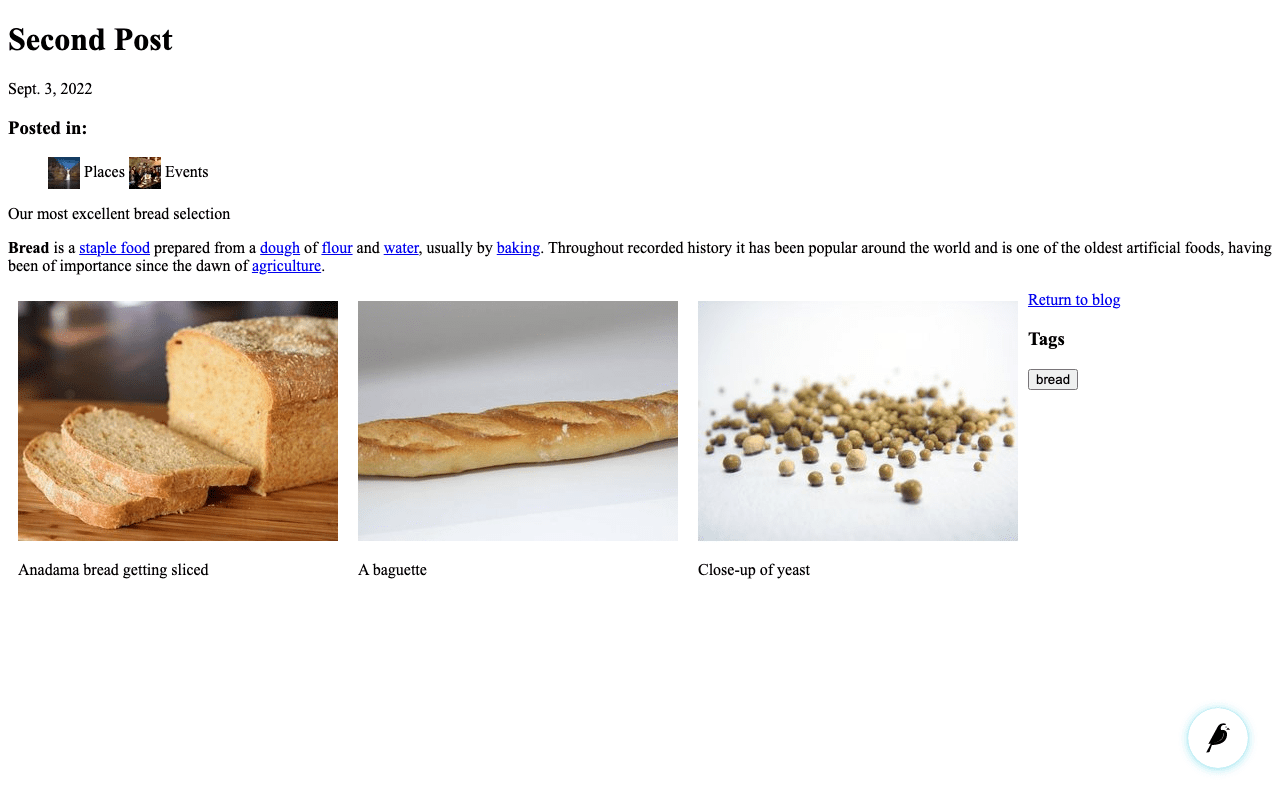
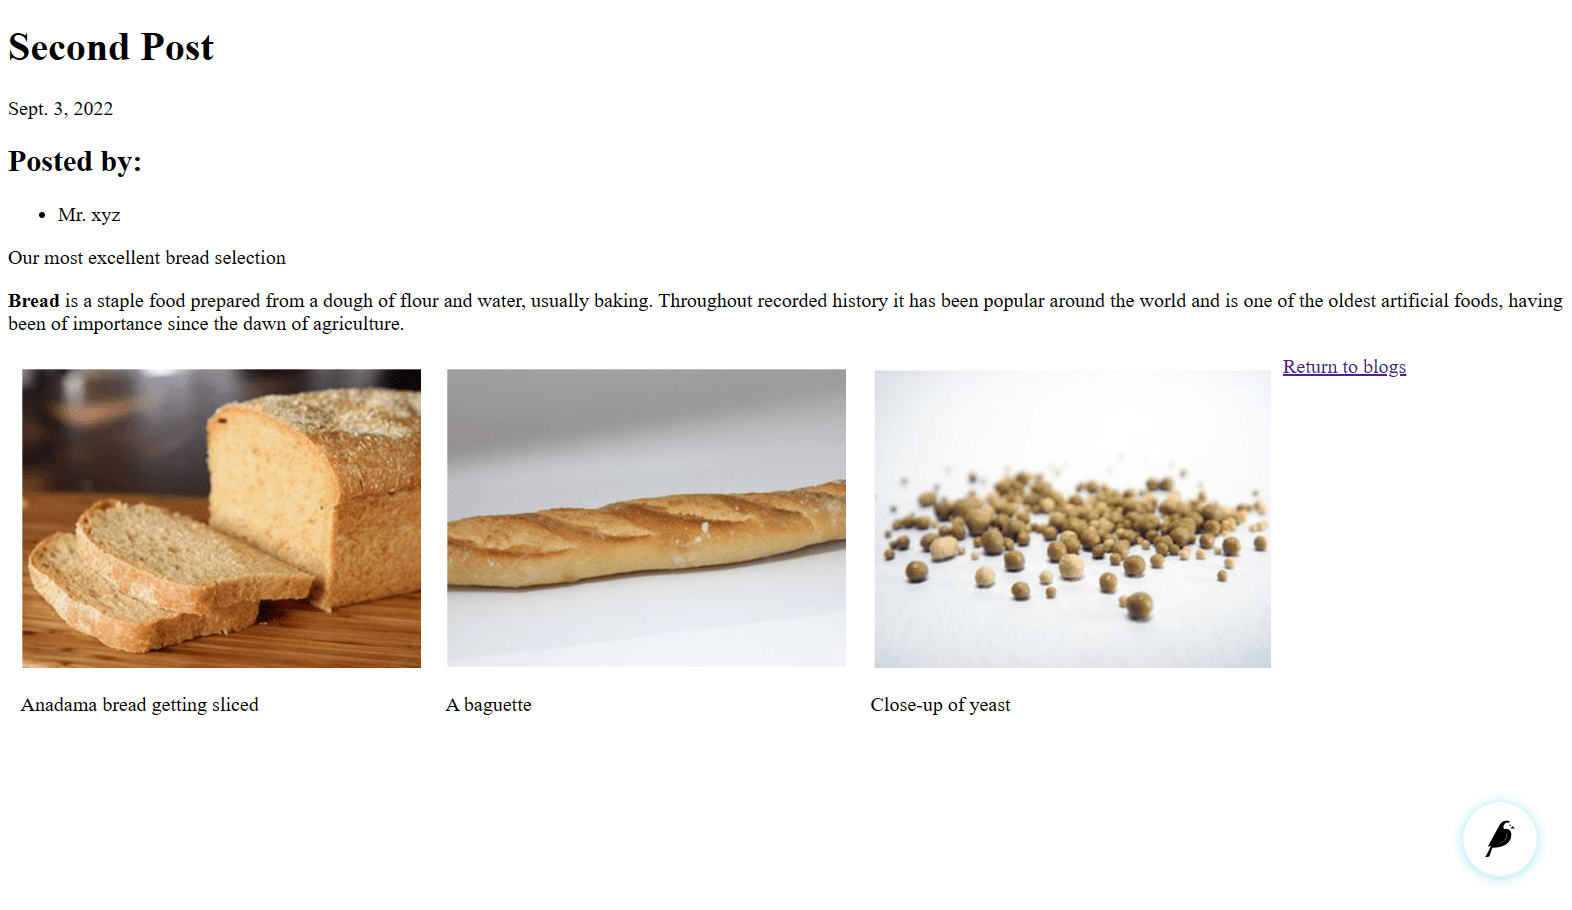
Fix incorrect screenshot for authors on tutorial (#10805)
Fixes #10763

diff --git a/docs/releases/5.2.md b/docs/releases/5.2.md
@@ -28,6 +28,7 @@ depth: 1
 ### Documentation
 
  * Document `WAGTAILADMIN_BASE_URL` on "Integrating Wagtail into a Django project" page (Shreshth Srivastava)
+ * Replace incorrect screenshot for authors listing on tutorial (Shreshth Srivastava)
 
 ### Maintenance
 
